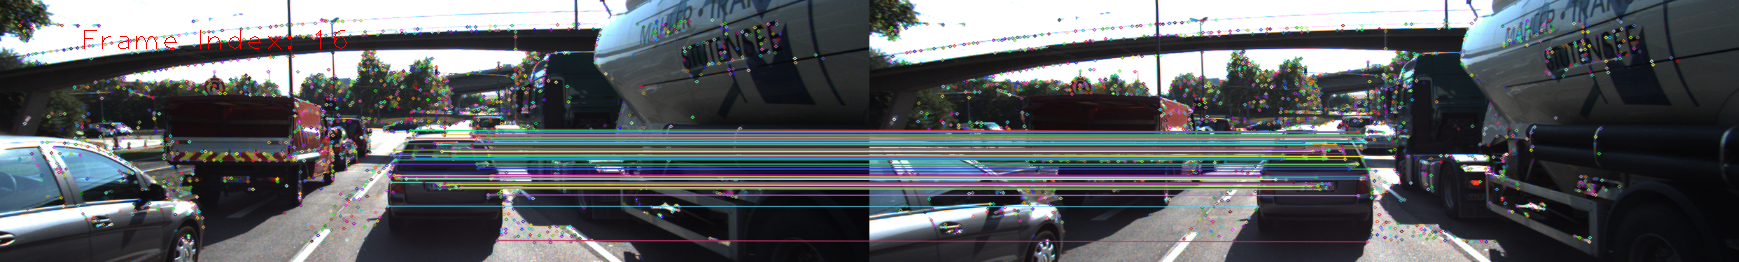
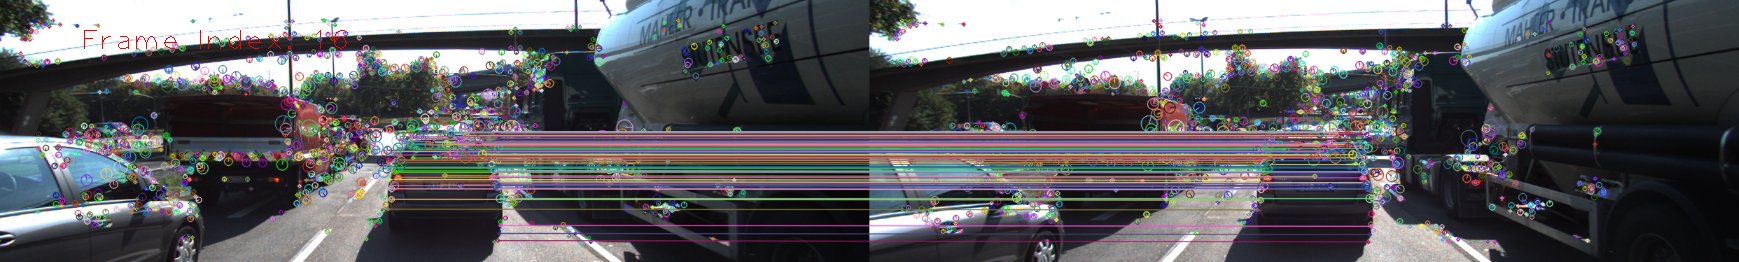
Update peformance evaluation data

diff --git a/src/camFusion_Student.cpp b/src/camFusion_Student.cpp
@@ -167,8 +167,8 @@ static std::vector<float> removeOutliers(const std::vector<float> &data)
     std::vector<float> sorted_data = data;
     std::sort(sorted_data.begin(), sorted_data.end());
 
-    float q1 = percentile(sorted_data, 0.25);
-    float q3 = percentile(sorted_data, 0.75);
+    float q1 = percentile(sorted_data, 0.35f);
+    float q3 = percentile(sorted_data, 0.65f);
     float iqr = q3 - q1;
 
     std::vector<float> filtered_data;
@@ -202,8 +202,8 @@ void clusterKptMatchesWithROI(BoundingBox &boundingBox, std::vector<cv::KeyPoint
         }
     }
     // Compute q1, q3 and interquartile range
-    float q1 = percentile(distKeypointMatches, 0.25f);
-    float q3 = percentile(distKeypointMatches, 0.75f);
+    float q1 = percentile(distKeypointMatches, 0.35f);
+    float q3 = percentile(distKeypointMatches, 0.65f);
     float iqr = q3 - q1;
 
     // Iterate through the matched keypoint pairs in the current bounding box and remove the ones which are outliers from the bounding box
@@ -279,7 +279,16 @@ void computeTTCCamera(std::vector<cv::KeyPoint> &kptsPrev, std::vector<cv::KeyPo
     float ttcCamCurr = -1 / frameRate / (1 - meanDistRatio);
     float betaCamCoef = 0.15; 
     static double ttcCamPrev = 0; 
-    TTC = (1 - betaCamCoef) * ttcCamPrev + betaCamCoef * ttcCamCurr; 
+    static bool lpfInit = true; 
+    if (lpfInit)
+    {
+        TTC = ttcCamCurr;
+        lpfInit = false;
+    }
+    else 
+    {
+        TTC = (1 - betaCamCoef) * ttcCamPrev + betaCamCoef * ttcCamCurr; 
+    }
     cout << "Debug: meanDistRatio: " << meanDistRatio << " - TTC Cam: " << TTC << endl; 
     cout << "Debug: ttcCamPrev: " << ttcCamPrev << " - ttcCamCurr: " << ttcCamCurr << endl; 
     ttcCamPrev = ttcCamCurr;
@@ -323,7 +332,17 @@ void computeTTCLidar(std::vector<LidarPoint> &lidarPointsPrev,
     // compute TTC
     double ttcLidarCurr = d1 / frameRate / (d0 - d1);
     double betaCoef = 0.25;
-    TTC = (1 - betaCoef) * ttcLidarPrev + betaCoef * ttcLidarCurr;
+    static bool lpfInit = true; 
+    if (lpfInit)
+    {
+        TTC = ttcLidarCurr;
+        lpfInit = false;
+    }
+    else 
+    {
+        TTC = (1 - betaCoef) * ttcLidarPrev + betaCoef * ttcLidarCurr;
+    }
+
     cout << "Debug: d1: " << d1 << " - d0: " << d0 << " - TTC Lidar: " << TTC << endl; 
     cout << "Debug: ttcLidarPrev: " << ttcLidarPrev << " - ttcLidarCurr: " << ttcLidarCurr << endl; 
     ttcLidarPrev = ttcLidarCurr;

diff --git a/src/FinalProject_Camera.cpp b/src/FinalProject_Camera.cpp
@@ -168,7 +168,7 @@ int main(int argc, const char *argv[])
 
         // extract 2D keypoints from current image
         vector<cv::KeyPoint> keypoints; // create empty feature list for current image
-        string detectorType = "FAST";
+        string detectorType = "AKAZE";
 
         if (detectorType.compare("SHITOMASI") == 0)
         {
@@ -228,7 +228,7 @@ int main(int argc, const char *argv[])
         /* EXTRACT KEYPOINT DESCRIPTORS */
 
         cv::Mat descriptors;
-        string descriptorType = "ORB"; // BRISK, BRIEF, ORB, FREAK, AKAZE, SIFT
+        string descriptorType = "AKAZE"; // BRISK, BRIEF, ORB, FREAK, AKAZE, SIFT
         descKeypoints((dataBuffer.end() - 1)->keypoints, (dataBuffer.end() - 1)->cameraImg, descriptors, descriptorType, t);
         timeDescriptorExtraction.push_back(t);
         // push descriptors for current frame to end of data buffer
@@ -310,7 +310,7 @@ int main(int argc, const char *argv[])
                     double ttcCamera;
                     clusterKptMatchesWithROI(*currBB, (dataBuffer.end() - 2)->keypoints, (dataBuffer.end() - 1)->keypoints, (dataBuffer.end() - 1)->kptMatches);                    
                     // visualize keypoint matches between current and previous image
-                    bVis = false;
+                    bVis = true;
                     if (bVis)
                     {
                         cv::Mat matchImg = ((dataBuffer.end() - 1)->cameraImg).clone();
@@ -344,7 +344,7 @@ int main(int argc, const char *argv[])
                     computeTTCCamera((dataBuffer.end() - 2)->keypoints, (dataBuffer.end() - 1)->keypoints, currBB->kptMatches, sensorFrameRate, ttcCamera);
                     //// EOF STUDENT ASSIGNMENT
 
-                    bVis = false;
+                    bVis = true;
                     if (bVis)
                     {
                         cv::Mat visImg = (dataBuffer.end() - 1)->cameraImg.clone();
